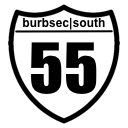
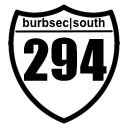
Updated Burbsec South & Cigarsec East
Updated location & logo for South, removed Cigarsec East

Changed region(s): [[0.1875, 0.2812, 0.8438, 0.75]]

diff --git a/index.html b/index.html
@@ -115,9 +115,9 @@
                   The <span class="pop-color">second</span> Thursday of the month
                 </div>
                 <div class="btn-group" role="group" aria-label="Burbsec South">
-                  <a href="https://goo.gl/maps/TVQH1rksC7fh2XCy9" target="_blank" class="btn btn-light">
+                  <a href="https://goo.gl/maps/PfyeoM4WvJhG5tDTA" target="_blank" class="btn btn-light">
                     <i class="fas fa-map-marked-alt"></i>
-                    Blarney Stone
+                    Prime Time
                   </a>
                   <a href="https://twitter.com/burbsecsouth" target="_blank" class="btn btn-light">
                     <i class="fab fa-twitter"></i>
@@ -211,31 +211,6 @@
                   <a href="https://goo.gl/maps/MFzryyKpcaSKcHL28" target="_blank" class="btn btn-light">
                     <i class="fas fa-map-marked-alt"></i>
                     The Cigar Lounge
-                  </a>
-                  <a href="https://twitter.com/cigarsec" target="_blank" class="btn btn-light">
-                    <i class="fab fa-twitter"></i>
-                    cigarsec
-                  </a>
-                </div>
-              </div>
-              <div class="col-auto d-sm-block d-md-none d-lg-block">
-                <img src="img/cigar.png" />
-              </div>
-            </div>
-          </div>
-
-          <!-- CigarSec East -->
-          <div class="col-md-6 mx-auto">
-            <div class="row no-gutters border rounded overflow-hidden flex-md-row mb-4 shadow-sm h-md-250 position-relative bg-white">
-              <div class="col p-4 d-flex flex-column">
-                <h1 class="mb-0">cigarsec|<span class="pop-color">east</span></h3>
-                <div class="mb-1 text-muted">
-                  Every <span class="pop-color">third Wednesday</span> from 5pm-7pm
-                </div>
-                <div class="btn-group" role="group" aria-label="Burbsec Prime">
-                  <a href="https://goo.gl/maps/8vjRBqQT7fea5Yk79" target="_blank" class="btn btn-light">
-                    <i class="fas fa-map-marked-alt"></i>
-                    The Clayton
                   </a>
                   <a href="https://twitter.com/cigarsec" target="_blank" class="btn btn-light">
                     <i class="fab fa-twitter"></i>
